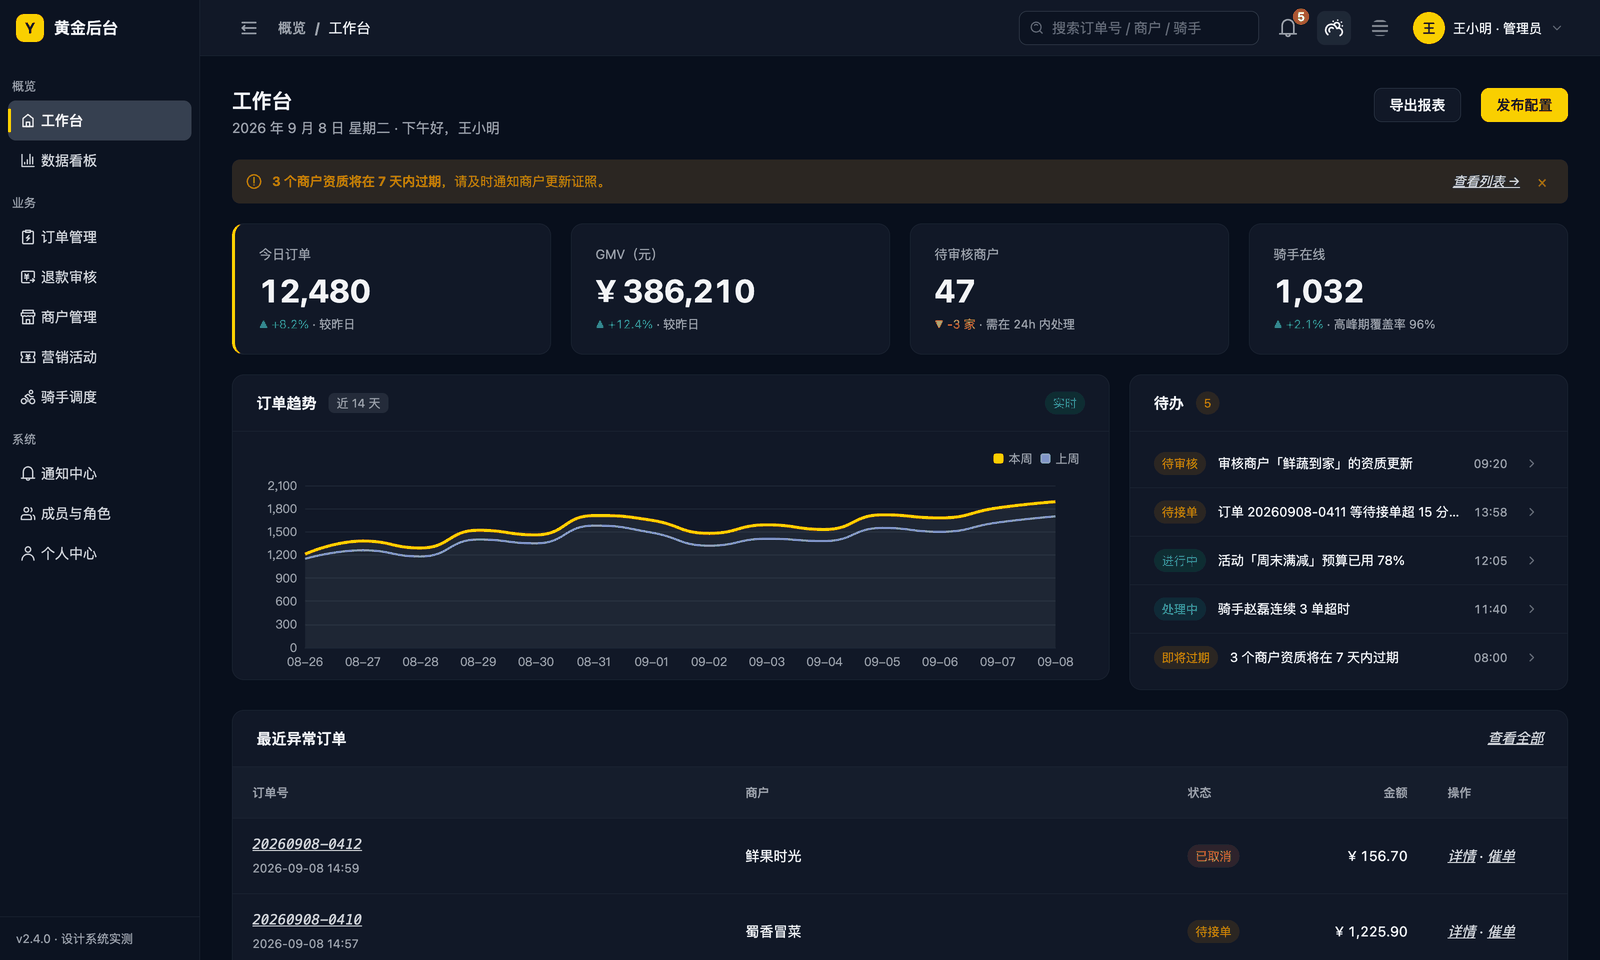
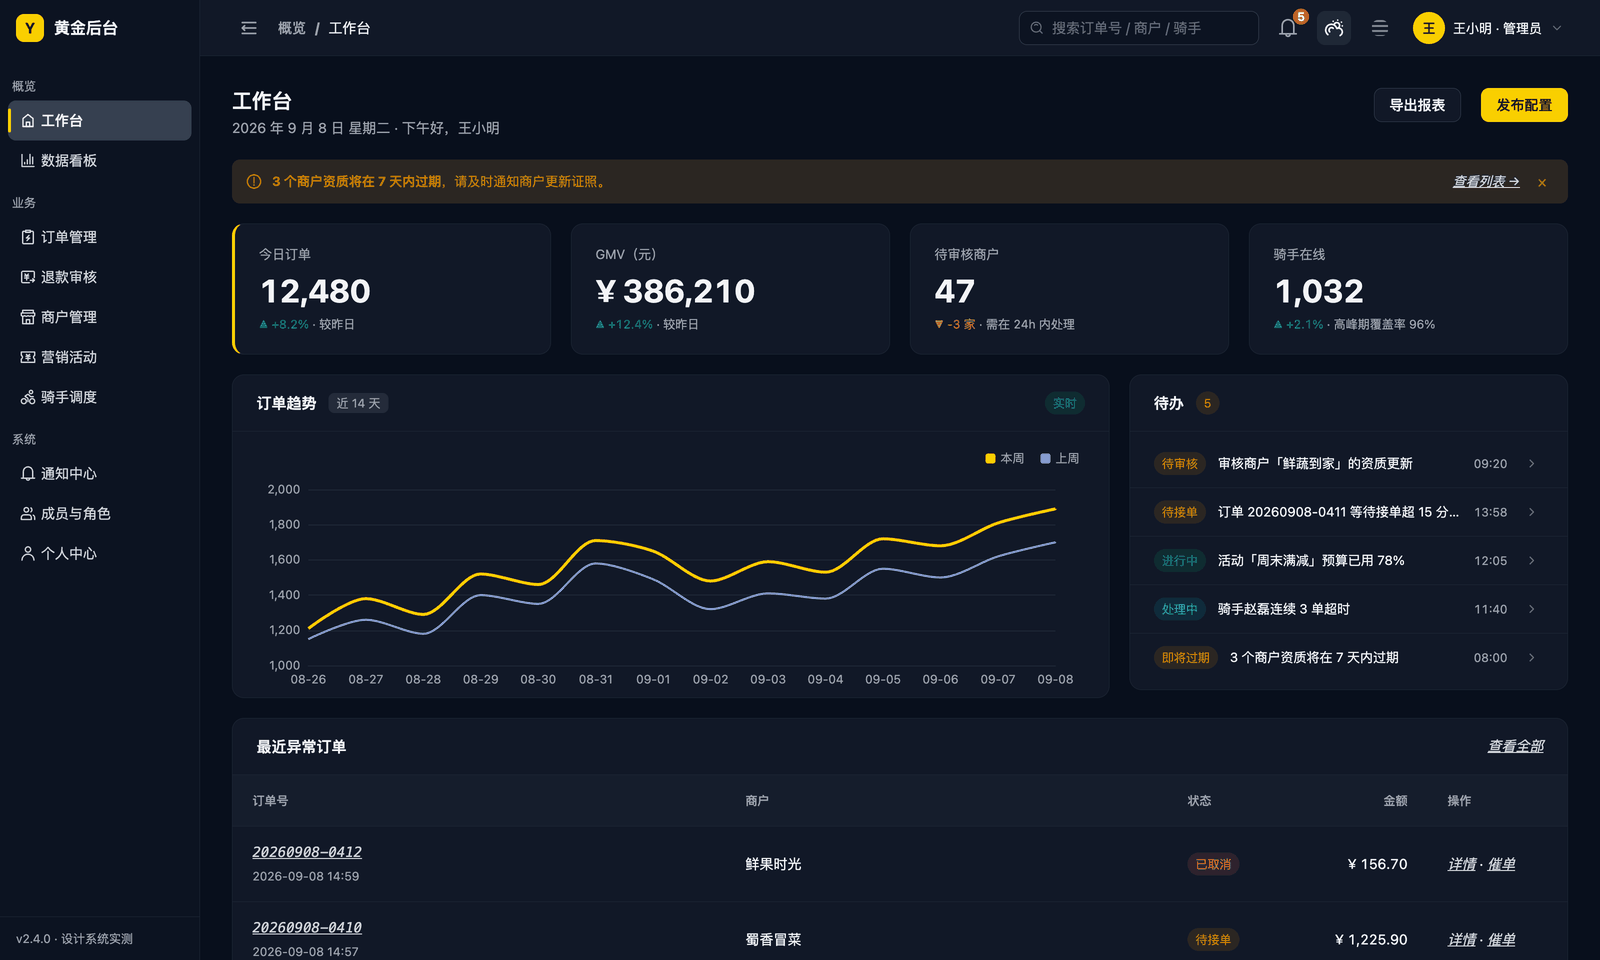
1.2.0 补正：移除误入库的根目录 docs 截图；面积渐变末端用 transparent（不留色值字面量）；首图重拍

diff --git a/citrine/seeds/brand-yellow-e/bridge/echarts.js b/citrine/seeds/brand-yellow-e/bridge/echarts.js
@@ -50,7 +50,7 @@ export function registerTheme(echarts, name = 'citrine', el = document.documentE
 /** 单序列折线的面积：从 chart.area 到透明的纵向渐变；多序列对比不要用面积 */
 export function areaGradient(echarts, el = document.documentElement) {
   const t = chartTokens(el);
-  return { color: new echarts.graphic.LinearGradient(0, 0, 0, 1, [{ offset: 0, color: t.area }, { offset: 1, color: 'rgba(0,0,0,0)' }]) };
+  return { color: new echarts.graphic.LinearGradient(0, 0, 0, 1, [{ offset: 0, color: t.area }, { offset: 1, color: 'transparent' }]) };
 }
 
 /**

diff --git a/citrine/testbed/golden-admin/app/src/styles/bridge/echarts.js b/citrine/testbed/golden-admin/app/src/styles/bridge/echarts.js
@@ -50,7 +50,7 @@ export function registerTheme(echarts, name = 'citrine', el = document.documentE
 /** 单序列折线的面积：从 chart.area 到透明的纵向渐变；多序列对比不要用面积 */
 export function areaGradient(echarts, el = document.documentElement) {
   const t = chartTokens(el);
-  return { color: new echarts.graphic.LinearGradient(0, 0, 0, 1, [{ offset: 0, color: t.area }, { offset: 1, color: 'rgba(0,0,0,0)' }]) };
+  return { color: new echarts.graphic.LinearGradient(0, 0, 0, 1, [{ offset: 0, color: t.area }, { offset: 1, color: 'transparent' }]) };
 }
 
 /**
